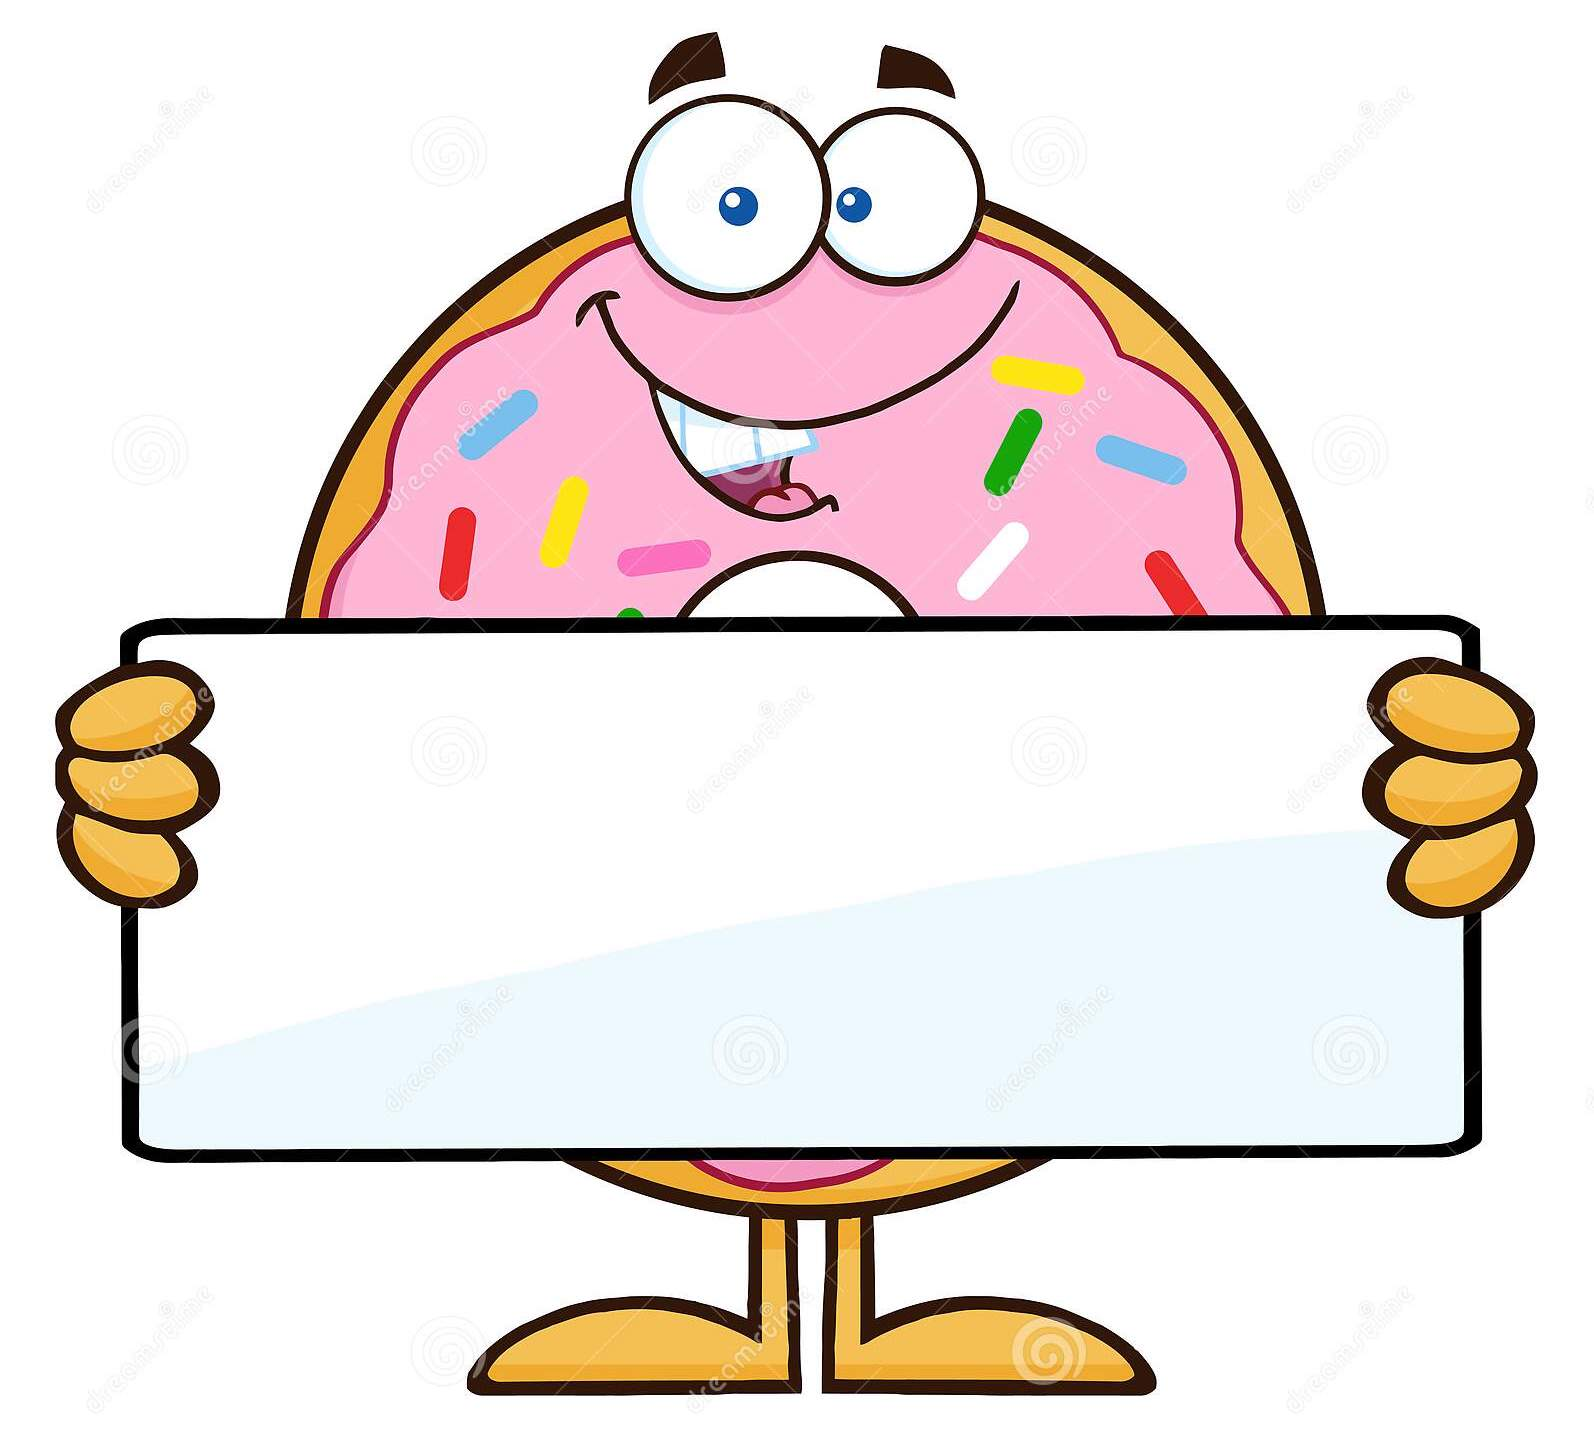
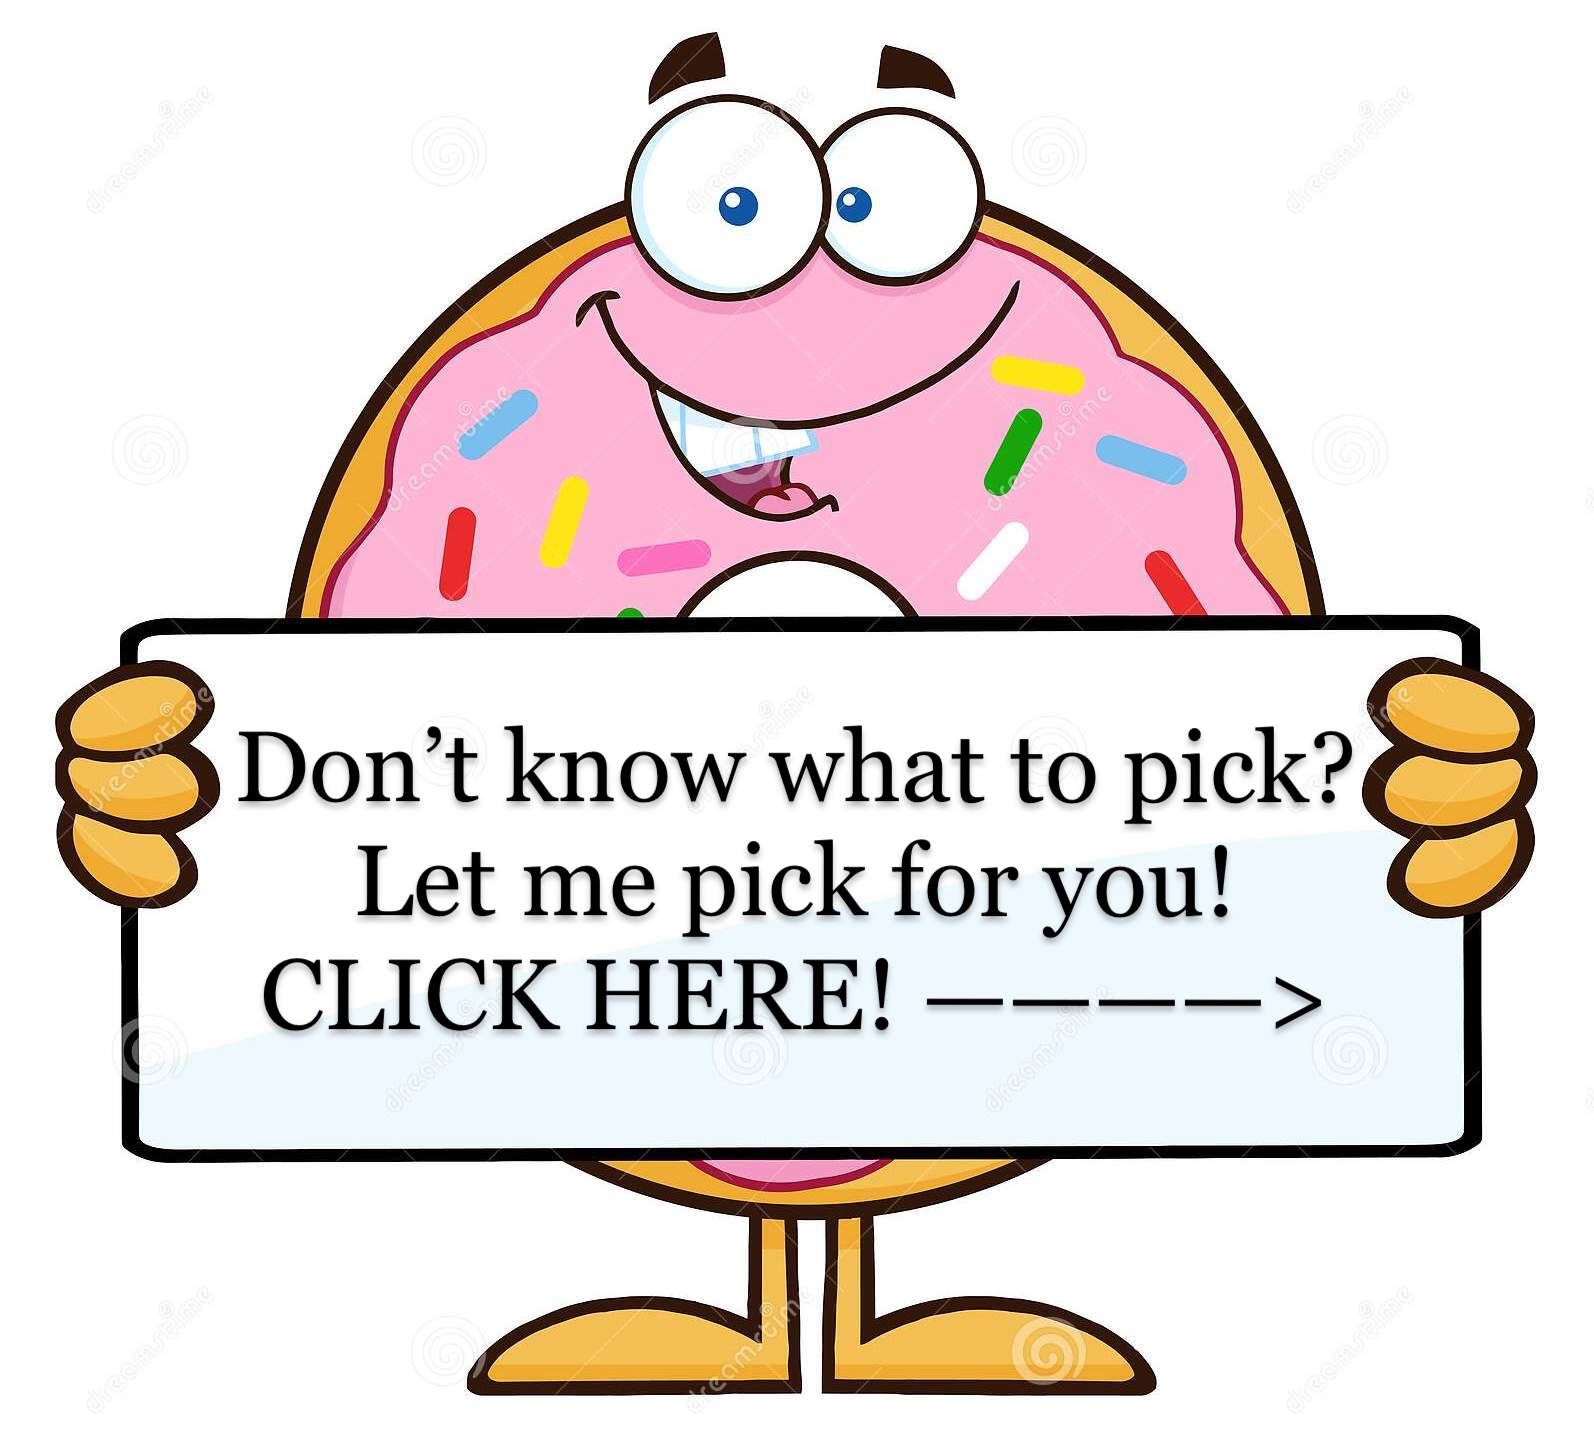
changes added photos

Changed region(s): [[0.1537, 0.4923, 0.8607, 0.7385]]

diff --git a/public/index.html b/public/index.html
@@ -22,7 +22,7 @@
           <li><a class="menu__item" href="#">Home</a></li>
           <li><a class="menu__item" href="#">Menu</a></li>
           <li><a class="menu__item" href="#">Reviews</a></li>
-          <li><a class="menu__item" href="#">Contact Us</a></li>
+          <li><a class="menu__item" href="./contact.html">Contact Us</a></li>
         </ul>
       </div>
   
@@ -33,18 +33,25 @@
     <img id="main-image" src="../Main.jpeg" alt="Image not found">
    
     <h2>About Us</h2>
-    <p>Donut Connection has been a big part of Shakopee MN, for more than 36 years some may say its become a historical place where many locals keep it close as they were brought there as kids</p>
+
+    <p>Donut Connection has been a big part of Shakopee MN, for more than 36 years some may say its become a historical place where many locals keep it close as they were brought there as kids.</p>
     <a id="news" href="https://www.swnewsmedia.com/shakopee_valley_news/news/donut-connection-in-shakopee-was-almost-a-mexican-restaurant-now-its-a-destination-for-doughnut/article_eb409c51-22c7-5759-88ec-b7c40c33cd9a.html">News Article about us</a>
     <br>
 
-    
+    <div ></div>
 <h2>Menu</h2>
-    <div class="donuts">
-   <img  src="../Donuts1.jpeg" alt="Image not found"> <img src="../Donuts2.jpeg" alt="Image not found">
-</div>
+    <a href="#Menu"></a>
+   <img class="shop" src="../Shop.png" alt="Image not found"> 
+
+ 
     <p>From a large selection of donuts of more than 40 different kinds, including fancy donuts, raised and old fashion donuts, and stuffed shell donuts.</p>
-  <img id="donut" src="../Donuts.jpeg" alt="Image not found">
+</div>
+   <div>
+  <img id="randomizer" src="../Donuts.jpeg" alt="Image not found"><button id="random">Randomizer</button>
+  </div>
+
     <br>
+
 <a href="#Review"></a>
     <input type="Email" placeholder="Email"> <input type="review" placeholder="Review"> <select aria-placeholder="Rating"> <option value="1">1</option> <option value="2">2</option><option value="3">3</option><option value="4">4</option><option value="5">5</option></select> <input type="date" name="" id=""> 
     <input type="button" value="Submit">

diff --git a/public/contact.html b/public/contact.html
@@ -1,0 +1,20 @@
+<!DOCTYPE html>
+<html lang="en">
+<head>
+    <meta charset="UTF-8">
+    <meta http-equiv="X-UA-Compatible" content="IE=edge">
+    <meta name="viewport" content="width=device-width, initial-scale=1.0">
+    <title>Contact Us</title>
+    <link rel="stylesheet" href="contact.css">
+    <link rel="stylesheet" href="index.html">
+</head>
+<body>
+    <h1>Contact Us</h1>
+    <img src="../Contact.jpeg" alt="Image not found">
+    <br>
+<p>Location: 1037 First Ave E, Shakoppe MN 55379</p>
+<a href="https://www.google.com/maps/dir/44.8222923,-93.591395/donut+connection+shakopee+mn/@44.8754276,-93.5756608,11z/data=!3m1!4b1!4m9!4m8!1m1!4e1!1m5!1m1!1s0x87f61a092617e397:0x18c6be8187919f45!2m2!1d-93.5130903!2d44.8005363">Directions</a>
+<p>Phone Number: (952) 496-2040 </p>
+</body>
+</html>
+<a href="#home"></a>

diff --git a/server/controller.js b/server/controller.js
@@ -1,6 +1,10 @@
-// module.exports = {
-//     getReview: (req, res) => {
-//         const {Email, Review, Rating, date} = req.params
-//         const newReview = ()
-//     }
-// }
+module.exports = {
+    getRandom: (req, res) => {
+        const donuts = ["Glazed Donut, Sugar Donut, Chocolate Ring, Chocolate Ring with sprikles, Maple Donut, Old Fashion, Home Cut, Chocolate Cake, Red Velvet, White Cake, Birthday Cake, Apple Fritter, Strawberry Turn-over, Cherry Turn-over, Apple Turn-over, Cinnamon Rolls, Pecan Rolls, Bagel, Glazed Old Fashion, Bowtie, Long John, Bear Claws, Cinnamon Twist, Tarts."];
+      
+        let random = Math.floor(Math.random() * donuts.length);
+        let randomDonut = donuts[random];
+      
+        res.status(200).send(randomDonut);
+    },
+}

diff --git a/public/index.css b/public/index.css
@@ -40,18 +40,22 @@ margin-top: 80px;
 padding-left: 40px;
 }
 
-.donuts {
-  display: flex;
-  flex-direction: row;
-  flex: 33.33%;
-  padding: 5px;
-  height: 200px;
-  width: 200px;
+.shop {
+  height: 550px;
+  width: 500px;
 }
 
-#donut {
+#randomizer {
   height: 200px;
+  width: 250px;
   
+}
+
+#random {
+  background-color: lightpink;
+  border-color: skyblue;
+  font-size: larger;
+  font-weight: bold;
 }
 
 #news {
@@ -102,7 +106,7 @@ p {
   .menu__btn > span::after {
     display: block;
     position: absolute;
-    top: 20px;
+    top: 12px;
     width: 100%;
     height: 2px;
     background-color: #616161;

diff --git a/server/index.js b/server/index.js
@@ -4,6 +4,7 @@ const path = require('path')
 
 const app = express()
 
+
 var Rollbar = require('rollbar')
 var rollbar = new Rollbar({
   accessToken: 'd1d0cbb3076845a39097a3edca27e7a1',
@@ -14,11 +15,14 @@ var rollbar = new Rollbar({
 // record a generic message and send it to Rollbar
 rollbar.log('Hello world!')
 
-// const {getReview} = requ
+
+const {getRandom} = require('./controller.js')
 
 app.get('/', function(req, res){
     res.sendFile(path.join(__dirname, '../public/index.html'))
 })
+
+app.get("/donut/random", getRandom)
 
 app.use(express.static(path.join(__dirname, '../public')))
 

diff --git a/main.js b/main.js
@@ -1,0 +1,12 @@
+const random = document.getElementById("random")
+
+const getRandom = () => {
+    axios.get("http://localhost:4005/donut/random/")
+        .then(res => {
+            const data = res.data;
+            alert(data);
+})
+}
+const baseURL ="http://localhost:4005/donut/random/"
+
+random.addEventListener('click', getRandom)

diff --git a/public/contact.css b/public/contact.css
@@ -1,0 +1,6 @@
+img {
+display: block;
+margin-left: auto;
+margin-right: auto;
+width: 50%;
+}
